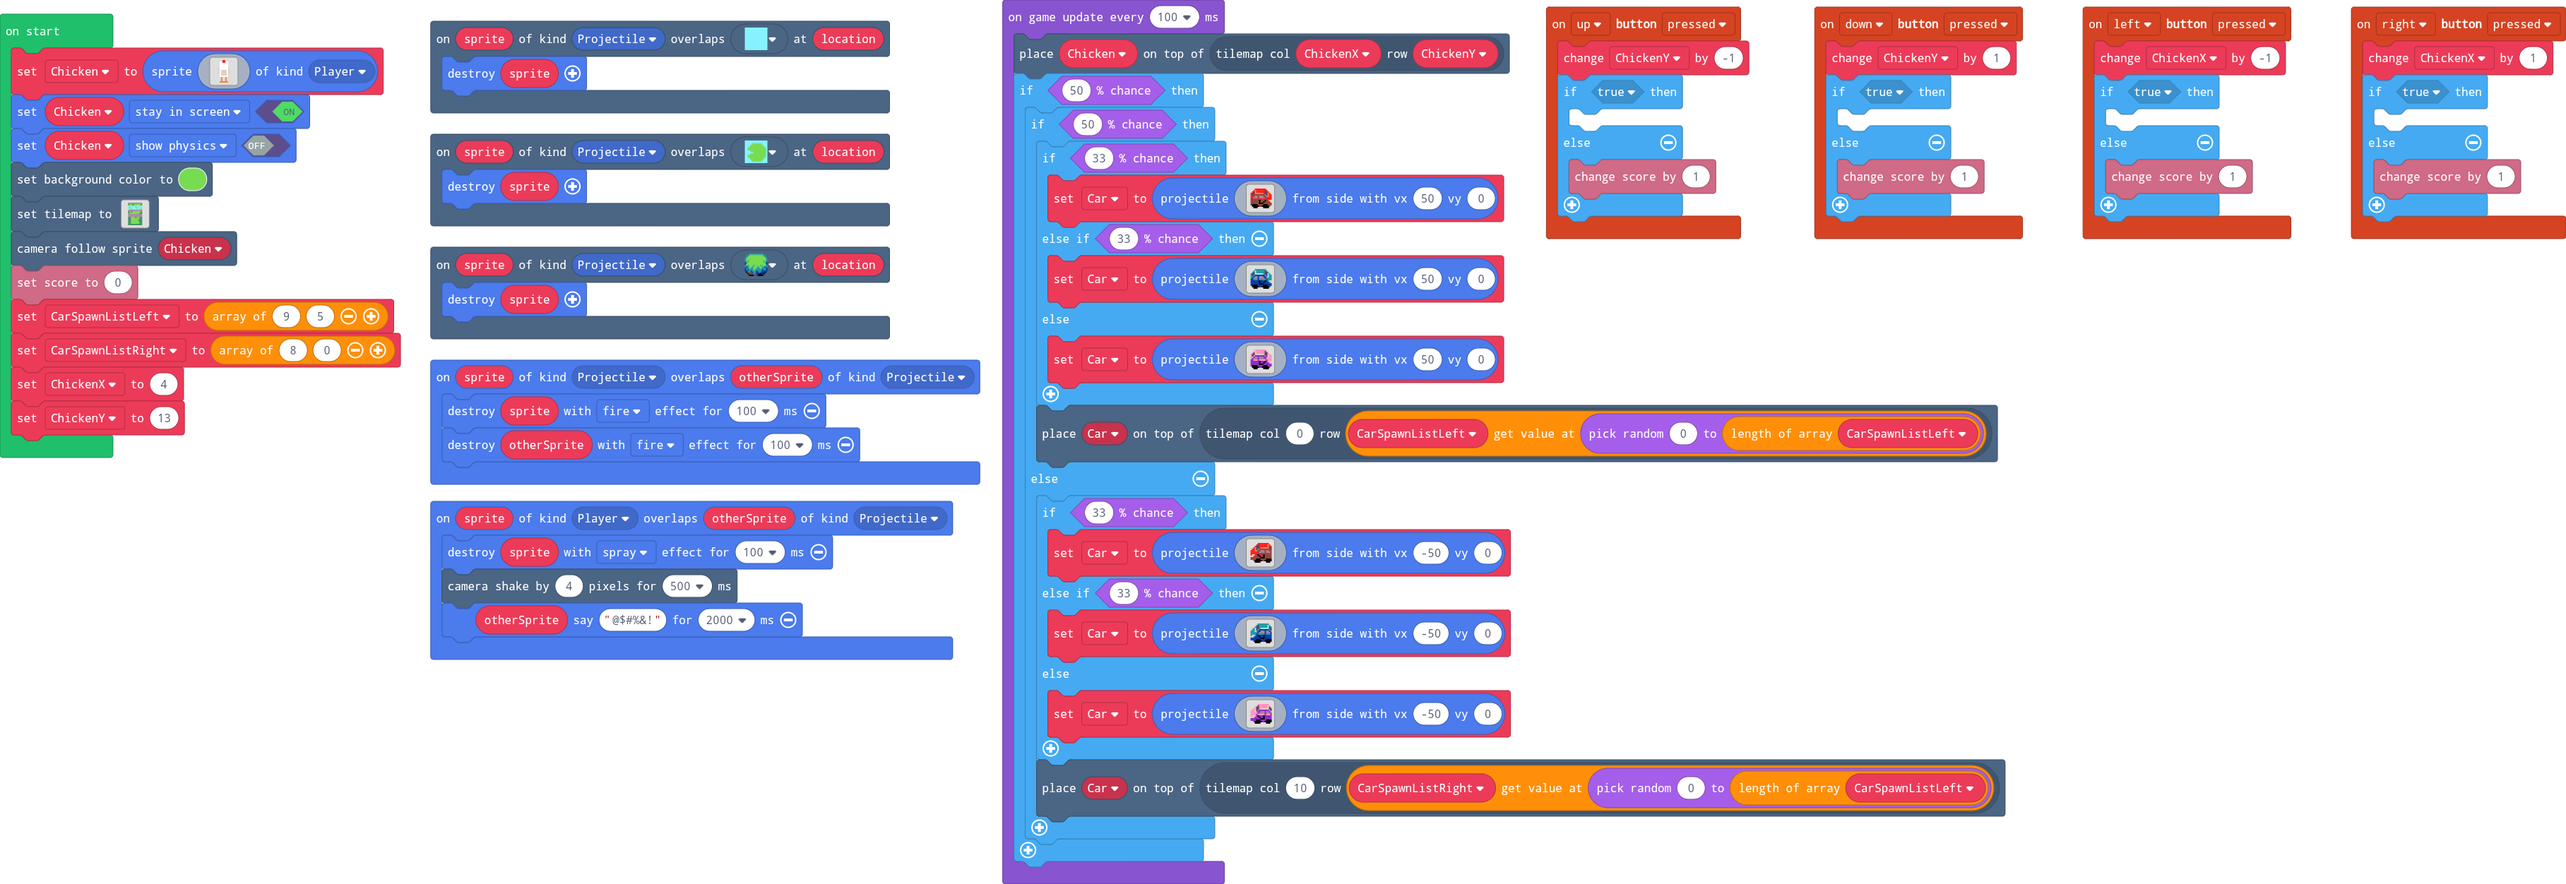
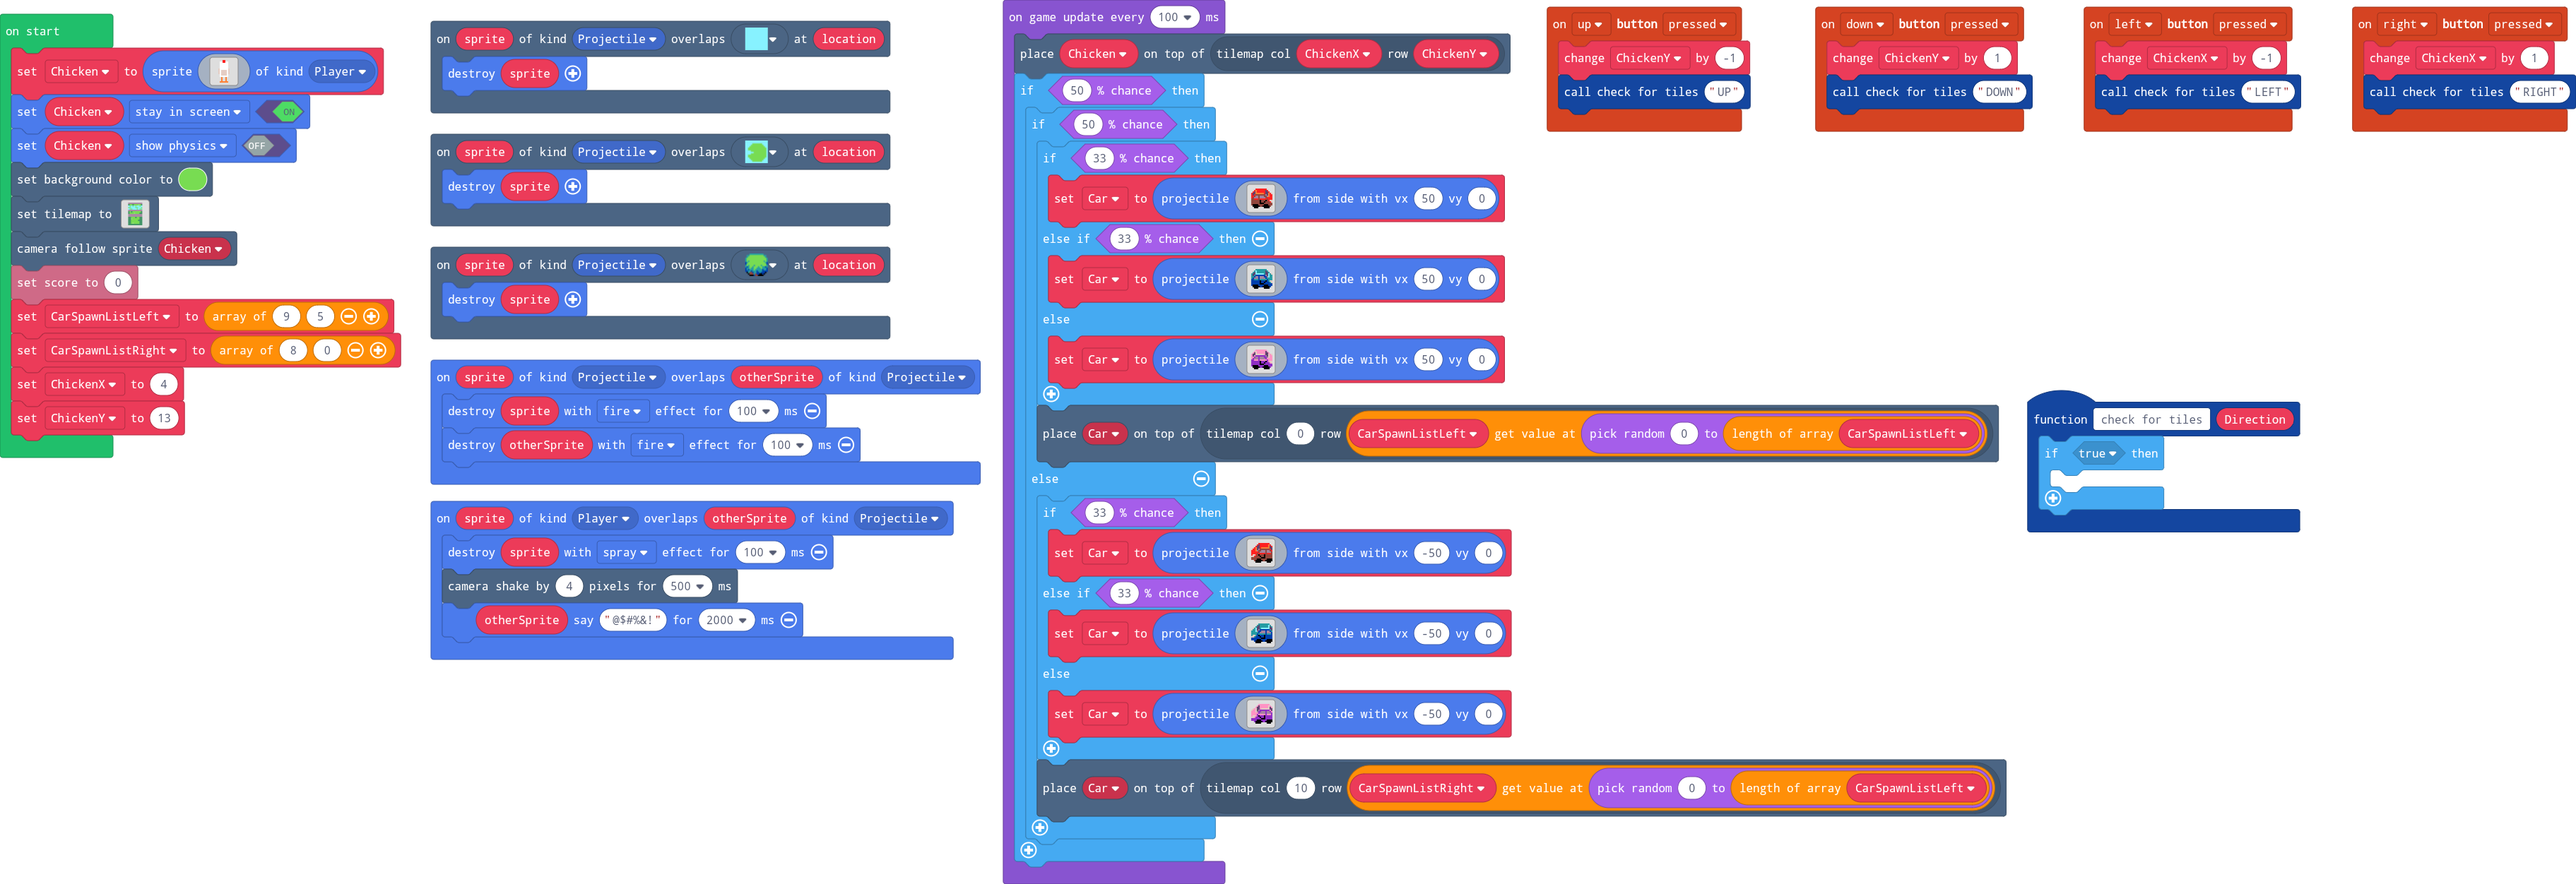
Update main.blocks, main.ts

diff --git a/main.ts b/main.ts
@@ -82,21 +82,18 @@ namespace myTiles {
 9 9 9 9 9 9 9 9 9 9 9 9 9 9 9 9 
 `
 }
-controller.left.onEvent(ControllerButtonEvent.Pressed, function () {
-    ChickenX += -1
+function check_for_tiles (Direction: string) {
     if (true) {
     	
-    } else {
-        info.changeScoreBy(1)
     }
+}
+controller.left.onEvent(ControllerButtonEvent.Pressed, function () {
+    ChickenX += -1
+    check_for_tiles("LEFT")
 })
 controller.down.onEvent(ControllerButtonEvent.Pressed, function () {
     ChickenY += 1
-    if (true) {
-    	
-    } else {
-        info.changeScoreBy(1)
-    }
+    check_for_tiles("DOWN")
 })
 scene.onOverlapTile(SpriteKind.Projectile, myTiles.tile3, function (sprite, location) {
     sprite.destroy()
@@ -112,22 +109,14 @@ sprites.onOverlap(SpriteKind.Projectile, SpriteKind.Projectile, function (sprite
 })
 controller.right.onEvent(ControllerButtonEvent.Pressed, function () {
     ChickenX += 1
-    if (true) {
-    	
-    } else {
-        info.changeScoreBy(1)
-    }
+    check_for_tiles("RIGHT")
 })
 scene.onOverlapTile(SpriteKind.Projectile, sprites.builtin.forestTiles0, function (sprite, location) {
     sprite.destroy()
 })
 controller.up.onEvent(ControllerButtonEvent.Pressed, function () {
     ChickenY += -1
-    if (true) {
-    	
-    } else {
-        info.changeScoreBy(1)
-    }
+    check_for_tiles("UP")
 })
 scene.onOverlapTile(SpriteKind.Projectile, myTiles.tile2, function (sprite, location) {
     sprite.destroy()
